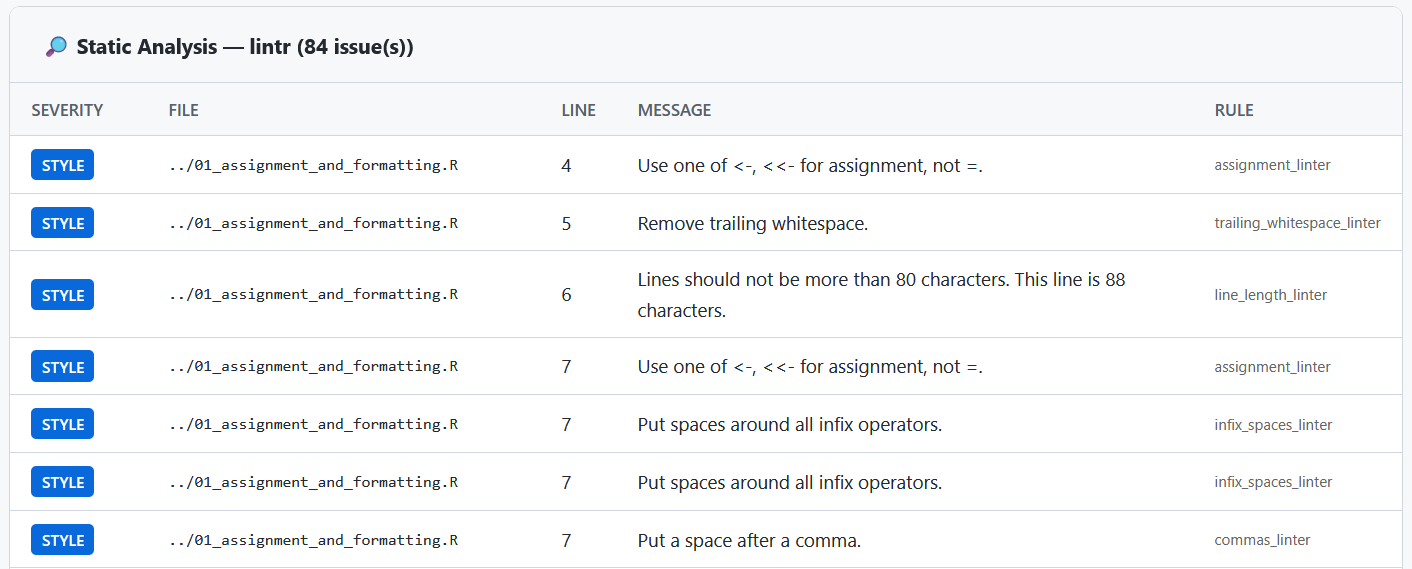
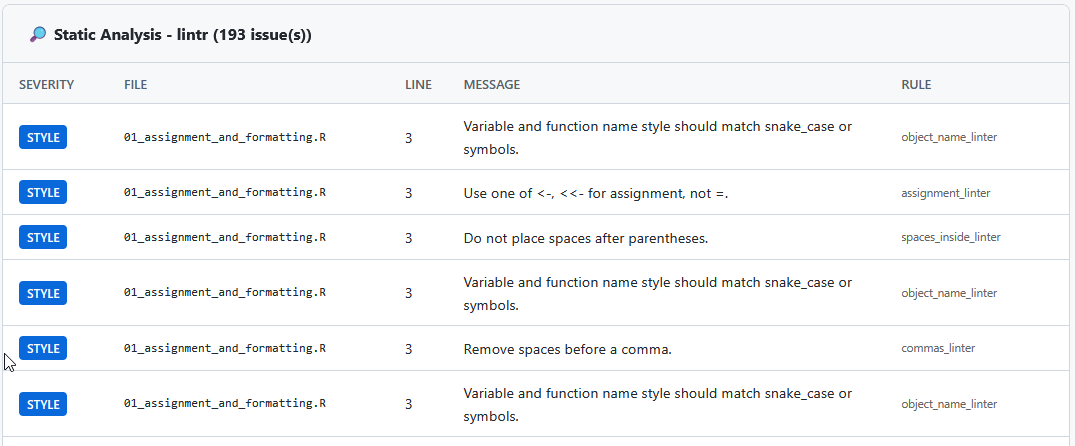
doc: nouvel exemple de script

diff --git a/_site/index.html b/_site/index.html
@@ -236,7 +236,11 @@ Damien Dotta
 </tbody>
 </table>
 </div><div class="column" style="width:30%;">
-<p><img data-src="images/hex_rsonar.png" style="width:90.0%"></p>
+<div class="quarto-figure quarto-figure-center">
+<figure>
+<p><img data-src="images/hex_rsonar.png" class="quarto-figure quarto-figure-center"></p>
+</figure>
+</div>
 </div></div>
 <p>Vocabulaire SonarQube : <em>issues</em>, <em>Coverage</em>, <strong>Quality Gate</strong>.</p>
 </section>
@@ -370,7 +374,7 @@ Damien Dotta
 </section>
 <section id="le-code-de-départ-version-0-1" class="slide level2">
 <h2>Le code de départ (version 0)</h2>
-<p>Exemple <code>R/analysis.R</code> :</p>
+<p>Exemple <code>01_assignment_and_formatting.R</code> :</p>
 <div class="sourceCode" id="cb3"><pre class="sourceCode numberSource r number-lines code-with-copy"><code class="sourceCode r"><span id="cb3-1"><a></a><span class="co"># File 1: Assignment operator &amp; formatting issues</span></span>
 <span id="cb3-2"><a></a>calculate_tax <span class="ot">&lt;-</span> <span class="cf">function</span>(income, <span class="at">rate =</span> <span class="fl">0.2</span>) {</span>
 <span id="cb3-3"><a></a>  <span class="co"># Violation: '=' used instead of '&lt;-' for assignment</span></span>
@@ -388,83 +392,116 @@ Damien Dotta
 <div class="sourceCode" id="cb4"><pre class="sourceCode numberSource r number-lines code-with-copy"><code class="sourceCode r"><span id="cb4-1"><a></a><span class="fu">library</span>(rsonar)</span>
 <span id="cb4-2"><a></a>res <span class="ot">&lt;-</span> <span class="fu">sonar_analyse</span>(<span class="st">"."</span>)</span>
 <span id="cb4-3"><a></a><span class="fu">sonar_report</span>(res)</span></code><button title="Copier vers le presse-papier" class="code-copy-button"><i class="bi"></i></button></pre></div>
-<pre><code>-- rsonar -- Quality Report --
-  Fichiers    : 1 R
-  Lint        : 8 issues (0 err / 3 warn / 5 style)
-  Style       : 1 fichier non conforme
-  Coverage    : 0%
-  Goodpractice: 3 échecs
+<p>Affiche un rapport interactif global.</p>
 
--- Dette Technique --
-  SQALE: E | Score: 38% | Durée: 4.2h</code></pre>
-</section>
+<img data-src="images/report_version0.png" class="quarto-figure quarto-figure-center r-stretch"></section>
 <section id="étape-0-score-note-et-hotspots" class="slide level2">
 <h2>Étape 0 — Score, note et hotspots</h2>
-<div class="sourceCode" id="cb6"><pre class="sourceCode numberSource r number-lines code-with-copy"><code class="sourceCode r"><span id="cb6-1"><a></a><span class="fu">quality_score</span>(<span class="st">"."</span>)   <span class="co"># Score : 38% | Rating : E</span></span>
-<span id="cb6-2"><a></a><span class="fu">debt_index</span>(res)      <span class="co"># Note : E (dette critique)</span></span>
-<span id="cb6-3"><a></a><span class="fu">sonar_hotspots</span>(res)  <span class="co"># → R/analysis.R en priorité</span></span></code><button title="Copier vers le presse-papier" class="code-copy-button"><i class="bi"></i></button></pre></div>
-<ul>
-<li><code>debt_index()</code> : note de dette technique (A à E)</li>
-<li><code>sonar_hotspots()</code> : fichiers à corriger en priorité</li>
-<li><code>sonar_report(res)</code> : rapport HTML interactif</li>
-</ul>
-</section>
+
+<img data-src="images/technical_debt.png" class="quarto-figure quarto-figure-center r-stretch"></section>
+<section id="étape-0-score-note-et-hotspots-1" class="slide level2">
+<h2>Étape 0 — Score, note et hotspots</h2>
+
+<img data-src="images/lint_issues.png" class="quarto-figure quarto-figure-center r-stretch"></section>
 <section id="étape-1-corriger-le-style-automatiquement" class="slide level2">
 <h2>Étape 1 — Corriger le style automatiquement</h2>
 <p><code>sonar_fix()</code> s’appuie sur <a href="https://github.com/posit-dev/air"><code>air</code></a>, le formateur R rapide de Posit.</p>
-<div class="sourceCode" id="cb7"><pre class="sourceCode numberSource r number-lines code-with-copy"><code class="sourceCode r"><span id="cb7-1"><a></a><span class="co"># Aperçu sans rien modifier</span></span>
-<span id="cb7-2"><a></a><span class="fu">sonar_fix</span>(<span class="st">"."</span>, <span class="at">dry_run =</span> <span class="cn">TRUE</span>)</span>
-<span id="cb7-3"><a></a></span>
-<span id="cb7-4"><a></a><span class="co"># Application des corrections de style</span></span>
-<span id="cb7-5"><a></a><span class="fu">sonar_fix</span>(<span class="st">"."</span>)</span></code><button title="Copier vers le presse-papier" class="code-copy-button"><i class="bi"></i></button></pre></div>
-<p>Corrige : espaces, <code>=</code> → <code>&lt;-</code>, accolades, indentation.</p>
+<div class="sourceCode" id="cb5"><pre class="sourceCode numberSource r number-lines code-with-copy"><code class="sourceCode r"><span id="cb5-1"><a></a><span class="co"># Aperçu sans rien modifier</span></span>
+<span id="cb5-2"><a></a><span class="fu">sonar_fix</span>(<span class="st">"."</span>, <span class="at">dry_run =</span> <span class="cn">TRUE</span>)</span></code><button title="Copier vers le presse-papier" class="code-copy-button"><i class="bi"></i></button></pre></div>
+<div class="sourceCode" id="cb6"><pre class="sourceCode numberSource r number-lines code-with-copy"><code class="sourceCode r"><span id="cb6-1"><a></a>── rsonar <span class="fu">Fix</span> (dry<span class="sc">-</span>run) ────────────────────────────────────────────────────────────────────</span>
+<span id="cb6-2"><a></a>ℹ Path<span class="sc">:</span> <span class="er">/</span>var<span class="sc">/</span>data<span class="sc">/</span>nfs<span class="sc">/</span>CERISE<span class="sc">/</span><span class="dv">00</span><span class="sc">-</span>Espace<span class="sc">-</span>Personnel<span class="sc">/</span>damien.dotta<span class="sc">/</span>rsonar_tests</span>
+<span id="cb6-3"><a></a>ℹ <span class="dv">10</span> R <span class="fu">file</span>(s) found</span>
+<span id="cb6-4"><a></a>✔ Report saved<span class="sc">:</span> sonar<span class="sc">-</span>fixes.json</span>
+<span id="cb6-5"><a></a>                               </span>
+<span id="cb6-6"><a></a>── rsonar Fix <span class="fu">Report</span> (dry<span class="sc">-</span>run <span class="sc">-</span> no files modified) ─────────────────────────────────────────</span>
+<span id="cb6-7"><a></a>ℹ Path <span class="sc">:</span> <span class="er">/</span>var<span class="sc">/</span>data<span class="sc">/</span>nfs<span class="sc">/</span>CERISE<span class="sc">/</span><span class="dv">00</span><span class="sc">-</span>Espace<span class="sc">-</span>Personnel<span class="sc">/</span>damien.dotta<span class="sc">/</span>rsonar_tests</span>
+<span id="cb6-8"><a></a>ℹ Files <span class="sc">:</span> <span class="dv">10</span> scanned, <span class="dv">10</span> modified</span>
+<span id="cb6-9"><a></a>ℹ Time <span class="sc">:</span> <span class="dv">2</span>s</span>
+<span id="cb6-10"><a></a>                               </span>
+<span id="cb6-11"><a></a>── Fixes applied               </span>
+<span id="cb6-12"><a></a>  styler<span class="sc">:</span> <span class="dv">9</span>fixes to <span class="dv">10</span> <span class="fu">file</span>(s)</span>
+<span id="cb6-13"><a></a>  spacing<span class="sc">:</span> <span class="dv">4</span></span>
+<span id="cb6-14"><a></a>  true_false<span class="sc">:</span> <span class="dv">3</span></span>
+<span id="cb6-15"><a></a>  commas<span class="sc">:</span> <span class="dv">2</span></span>
+<span id="cb6-16"><a></a>  cleanup<span class="sc">:</span> <span class="dv">29</span></span>
+<span id="cb6-17"><a></a>  assignment<span class="sc">:</span> <span class="dv">2</span></span>
+<span id="cb6-18"><a></a>  unused_vars<span class="sc">:</span> <span class="dv">1</span></span>
+<span id="cb6-19"><a></a>ℹ Run <span class="st">`</span><span class="at">sonar_fix()</span><span class="st">`</span> with <span class="st">`</span><span class="at">dry_run = FALSE</span><span class="st">`</span> to apply fixes.</span>
+<span id="cb6-20"><a></a>✔ Applying fixes to <span class="dv">10</span> <span class="fu">file</span>(s) [<span class="fl">2.2</span>s]</span></code><button title="Copier vers le presse-papier" class="code-copy-button"><i class="bi"></i></button></pre></div>
+</section>
+<section id="étape-1-corriger-le-style-automatiquement-1" class="slide level2">
+<h2>Étape 1 — Corriger le style automatiquement</h2>
+<p>Avec dry_run à FALSE, les scripts sont modifiés :</p>
+<div class="sourceCode" id="cb7"><pre class="sourceCode numberSource r number-lines code-with-copy"><code class="sourceCode r"><span id="cb7-1"><a></a><span class="co"># Application des corrections de style</span></span>
+<span id="cb7-2"><a></a><span class="fu">sonar_fix</span>(<span class="st">"."</span>)</span></code><button title="Copier vers le presse-papier" class="code-copy-button"><i class="bi"></i></button></pre></div>
 </section>
 <section id="étape-1-résultat-version-1" class="slide level2">
 <h2>Étape 1 — Résultat (version 1)</h2>
-<div class="sourceCode" id="cb8"><pre class="sourceCode numberSource r number-lines code-with-copy"><code class="sourceCode r"><span id="cb8-1"><a></a>addcols <span class="ot">&lt;-</span> <span class="cf">function</span>(d, a, b) {</span>
-<span id="cb8-2"><a></a>  <span class="cf">if</span> (<span class="fu">nrow</span>(d) <span class="sc">==</span> <span class="dv">0</span>) {</span>
-<span id="cb8-3"><a></a>    <span class="fu">stop</span>(<span class="st">"empty"</span>)</span>
-<span id="cb8-4"><a></a>  }</span>
-<span id="cb8-5"><a></a>  total <span class="ot">&lt;-</span> d[[a]] <span class="sc">+</span> d[[b]]</span>
-<span id="cb8-6"><a></a>  positive <span class="ot">&lt;-</span> <span class="fu">ifelse</span>(total <span class="sc">&gt;</span> <span class="dv">0</span>, T, F)</span>
-<span id="cb8-7"><a></a>  result <span class="ot">&lt;-</span> <span class="fu">list</span>(<span class="at">total =</span> total, <span class="at">positive =</span> positive)</span>
-<span id="cb8-8"><a></a>  <span class="fu">return</span>(result)</span>
-<span id="cb8-9"><a></a>}</span></code><button title="Copier vers le presse-papier" class="code-copy-button"><i class="bi"></i></button></pre></div>
-<p>Le style est réglé, mais le nommage, la complexité et la doc restent.</p>
-<p>Re-mesure : <strong>Score 62% · Note D</strong>.</p>
+<div class="sourceCode" id="cb8"><pre class="sourceCode numberSource r number-lines code-with-copy"><code class="sourceCode r"><span id="cb8-1"><a></a><span class="co"># File 1: Assignment operator &amp; formatting issues</span></span>
+<span id="cb8-2"><a></a>calculate_tax <span class="ot">&lt;-</span> <span class="cf">function</span>(income, <span class="at">rate =</span> <span class="fl">0.2</span>) {</span>
+<span id="cb8-3"><a></a>  <span class="co"># Violation: '=' used instead of '&lt;-' for assignment</span></span>
+<span id="cb8-4"><a></a>  total_tax <span class="ot">&lt;-</span> income <span class="sc">*</span> rate</span>
+<span id="cb8-5"><a></a></span>
+<span id="cb8-6"><a></a>  <span class="co"># Violation: line over 80 characters limit with bad spacing around Operators and comma</span></span>
+<span id="cb8-7"><a></a>  result <span class="ot">&lt;-</span> <span class="fu">data.frame</span>(<span class="at">income =</span> income, <span class="at">tax =</span> total_tax, <span class="at">net =</span> income <span class="sc">-</span> total_tax, <span class="at">note =</span> <span class="st">"Calculated automatically by custom financial routine"</span>)</span>
+<span id="cb8-8"><a></a></span>
+<span id="cb8-9"><a></a>  <span class="fu">return</span>(result)</span>
+<span id="cb8-10"><a></a>}</span></code><button title="Copier vers le presse-papier" class="code-copy-button"><i class="bi"></i></button></pre></div>
+<p>Le style est réglé, mais tout n’est pas réglé.</p>
 </section>
+<section id="étape-1-résultat-version-1-1" class="slide level2">
+<h2>Étape 1 — Résultat (version 1)</h2>
+
+<img data-src="images/report_version1.png" class="quarto-figure quarto-figure-center r-stretch"></section>
 <section id="étape-2-refactoriser-et-documenter" class="slide level2">
 <h2>Étape 2 — Refactoriser et documenter</h2>
 <p>Améliorations manuelles :</p>
 <ul>
-<li><code>addcols</code> → <code>add_columns</code>, <code>d/a/b</code> → <code>data/col1/col2</code></li>
-<li><code>ifelse(x &gt; 0, T, F)</code> → <code>x &gt; 0</code></li>
-<li>documentation roxygen ajoutée</li>
+<li>renommer <code>total_tax</code> → <code>tax</code> et extraire <code>net</code></li>
+<li>fractionner le <code>data.frame</code> (ligne trop longue)</li>
+<li>supprimer le <code>return()</code> explicite (retour implicite)</li>
+<li>ajouter la documentation <strong>roxygen2</strong></li>
 </ul>
-<div class="sourceCode" id="cb9"><pre class="sourceCode numberSource r number-lines code-with-copy"><code class="sourceCode r"><span id="cb9-1"><a></a><span class="co">#' Somme deux colonnes et signale les lignes positives</span></span>
+<div class="sourceCode" id="cb9"><pre class="sourceCode numberSource r number-lines code-with-copy"><code class="sourceCode r"><span id="cb9-1"><a></a><span class="co">#' Calcule l'impôt et le revenu net</span></span>
 <span id="cb9-2"><a></a><span class="co">#'</span></span>
-<span id="cb9-3"><a></a><span class="co">#' @param data Un data frame.</span></span>
-<span id="cb9-4"><a></a><span class="co">#' @param col1,col2 Noms des colonnes à sommer.</span></span>
-<span id="cb9-5"><a></a><span class="co">#' @return Une liste avec `total` et `positive`.</span></span>
-<span id="cb9-6"><a></a>add_columns <span class="ot">&lt;-</span> <span class="cf">function</span>(data, col1, col2) {</span>
-<span id="cb9-7"><a></a>  <span class="cf">if</span> (<span class="fu">nrow</span>(data) <span class="sc">==</span> <span class="dv">0</span>) {</span>
-<span id="cb9-8"><a></a>    <span class="fu">stop</span>(<span class="st">"`data` doit contenir au moins une ligne."</span>)</span>
-<span id="cb9-9"><a></a>  }</span>
-<span id="cb9-10"><a></a>  total <span class="ot">&lt;-</span> data[[col1]] <span class="sc">+</span> data[[col2]]</span>
-<span id="cb9-11"><a></a>  <span class="fu">list</span>(<span class="at">total =</span> total, <span class="at">positive =</span> total <span class="sc">&gt;</span> <span class="dv">0</span>)</span>
-<span id="cb9-12"><a></a>}</span></code><button title="Copier vers le presse-papier" class="code-copy-button"><i class="bi"></i></button></pre></div>
+<span id="cb9-3"><a></a><span class="co">#' @param income Revenu brut (numérique ou vecteur).</span></span>
+<span id="cb9-4"><a></a><span class="co">#' @param rate Taux d'imposition, par défaut `0.2` (20 %).</span></span>
+<span id="cb9-5"><a></a><span class="co">#'</span></span>
+<span id="cb9-6"><a></a><span class="co">#' @return Un `data.frame` avec `income`, `tax`, `net` et `note`.</span></span>
+<span id="cb9-7"><a></a><span class="co">#' @export</span></span>
+<span id="cb9-8"><a></a><span class="co">#'</span></span>
+<span id="cb9-9"><a></a><span class="co">#' @examples</span></span>
+<span id="cb9-10"><a></a><span class="co">#' calculate_tax(c(1000, 2500))</span></span>
+<span id="cb9-11"><a></a>calculate_tax <span class="ot">&lt;-</span> <span class="cf">function</span>(income, <span class="at">rate =</span> <span class="fl">0.2</span>) {</span>
+<span id="cb9-12"><a></a>  tax <span class="ot">&lt;-</span> income <span class="sc">*</span> rate</span>
+<span id="cb9-13"><a></a>  net <span class="ot">&lt;-</span> income <span class="sc">-</span> tax</span>
+<span id="cb9-14"><a></a></span>
+<span id="cb9-15"><a></a>  <span class="fu">data.frame</span>(</span>
+<span id="cb9-16"><a></a>    <span class="at">income =</span> income,</span>
+<span id="cb9-17"><a></a>    <span class="at">tax    =</span> tax,</span>
+<span id="cb9-18"><a></a>    <span class="at">net    =</span> net,</span>
+<span id="cb9-19"><a></a>    <span class="at">note   =</span> <span class="st">"Calculated automatically by custom financial routine"</span></span>
+<span id="cb9-20"><a></a>  )</span>
+<span id="cb9-21"><a></a>}</span></code><button title="Copier vers le presse-papier" class="code-copy-button"><i class="bi"></i></button></pre></div>
 <p>Re-mesure : <strong>Score 78% · Note C</strong>.</p>
 </section>
 <section id="étape-3-ajouter-des-tests" class="slide level2">
 <h2>Étape 3 — Ajouter des tests</h2>
-<p><code>tests/testthat/test-analysis.R</code> :</p>
-<div class="sourceCode" id="cb10"><pre class="sourceCode numberSource r number-lines code-with-copy"><code class="sourceCode r"><span id="cb10-1"><a></a><span class="fu">test_that</span>(<span class="st">"add_columns somme et signale"</span>, {</span>
-<span id="cb10-2"><a></a>  data <span class="ot">&lt;-</span> <span class="fu">data.frame</span>(<span class="at">a =</span> <span class="fu">c</span>(<span class="dv">1</span>, <span class="sc">-</span><span class="dv">2</span>, <span class="dv">3</span>), <span class="at">b =</span> <span class="fu">c</span>(<span class="dv">0</span>, <span class="dv">5</span>, <span class="sc">-</span><span class="dv">5</span>))</span>
-<span id="cb10-3"><a></a>  res <span class="ot">&lt;-</span> <span class="fu">add_columns</span>(data, <span class="st">"a"</span>, <span class="st">"b"</span>)</span>
-<span id="cb10-4"><a></a></span>
-<span id="cb10-5"><a></a>  <span class="fu">expect_equal</span>(res<span class="sc">$</span>total, <span class="fu">c</span>(<span class="dv">1</span>, <span class="dv">3</span>, <span class="sc">-</span><span class="dv">2</span>))</span>
-<span id="cb10-6"><a></a>  <span class="fu">expect_equal</span>(res<span class="sc">$</span>positive, <span class="fu">c</span>(<span class="cn">TRUE</span>, <span class="cn">TRUE</span>, <span class="cn">FALSE</span>))</span>
-<span id="cb10-7"><a></a>})</span></code><button title="Copier vers le presse-papier" class="code-copy-button"><i class="bi"></i></button></pre></div>
+<p><code>tests/testthat/test-calculate-tax.R</code> :</p>
+<div class="sourceCode" id="cb10"><pre class="sourceCode numberSource r number-lines code-with-copy"><code class="sourceCode r"><span id="cb10-1"><a></a><span class="fu">test_that</span>(<span class="st">"calculate_tax calcule l'impôt et le net"</span>, {</span>
+<span id="cb10-2"><a></a>  res <span class="ot">&lt;-</span> <span class="fu">calculate_tax</span>(<span class="fu">c</span>(<span class="dv">1000</span>, <span class="dv">2500</span>), <span class="at">rate =</span> <span class="fl">0.2</span>)</span>
+<span id="cb10-3"><a></a></span>
+<span id="cb10-4"><a></a>  <span class="fu">expect_equal</span>(res<span class="sc">$</span>tax, <span class="fu">c</span>(<span class="dv">200</span>, <span class="dv">500</span>))</span>
+<span id="cb10-5"><a></a>  <span class="fu">expect_equal</span>(res<span class="sc">$</span>net, <span class="fu">c</span>(<span class="dv">800</span>, <span class="dv">2000</span>))</span>
+<span id="cb10-6"><a></a>  <span class="fu">expect_equal</span>(res<span class="sc">$</span>income, <span class="fu">c</span>(<span class="dv">1000</span>, <span class="dv">2500</span>))</span>
+<span id="cb10-7"><a></a>})</span>
+<span id="cb10-8"><a></a></span>
+<span id="cb10-9"><a></a><span class="fu">test_that</span>(<span class="st">"calculate_tax applique le taux par défaut"</span>, {</span>
+<span id="cb10-10"><a></a>  res <span class="ot">&lt;-</span> <span class="fu">calculate_tax</span>(<span class="dv">1000</span>)</span>
+<span id="cb10-11"><a></a></span>
+<span id="cb10-12"><a></a>  <span class="fu">expect_equal</span>(res<span class="sc">$</span>tax, <span class="dv">200</span>)</span>
+<span id="cb10-13"><a></a>  <span class="fu">expect_equal</span>(res<span class="sc">$</span>net, <span class="dv">800</span>)</span>
+<span id="cb10-14"><a></a>})</span></code><button title="Copier vers le presse-papier" class="code-copy-button"><i class="bi"></i></button></pre></div>
 <p>La couverture passe de 0% à 85%.</p>
 <p>Re-mesure : <strong>Score 94% · Note A</strong>.</p>
 </section>
